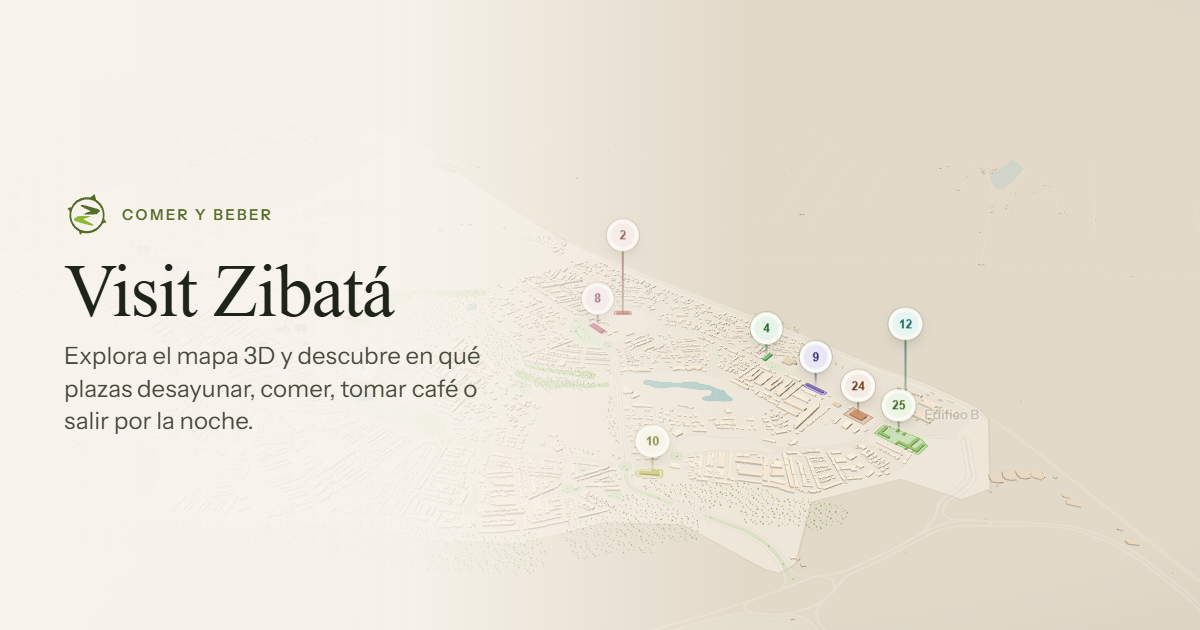
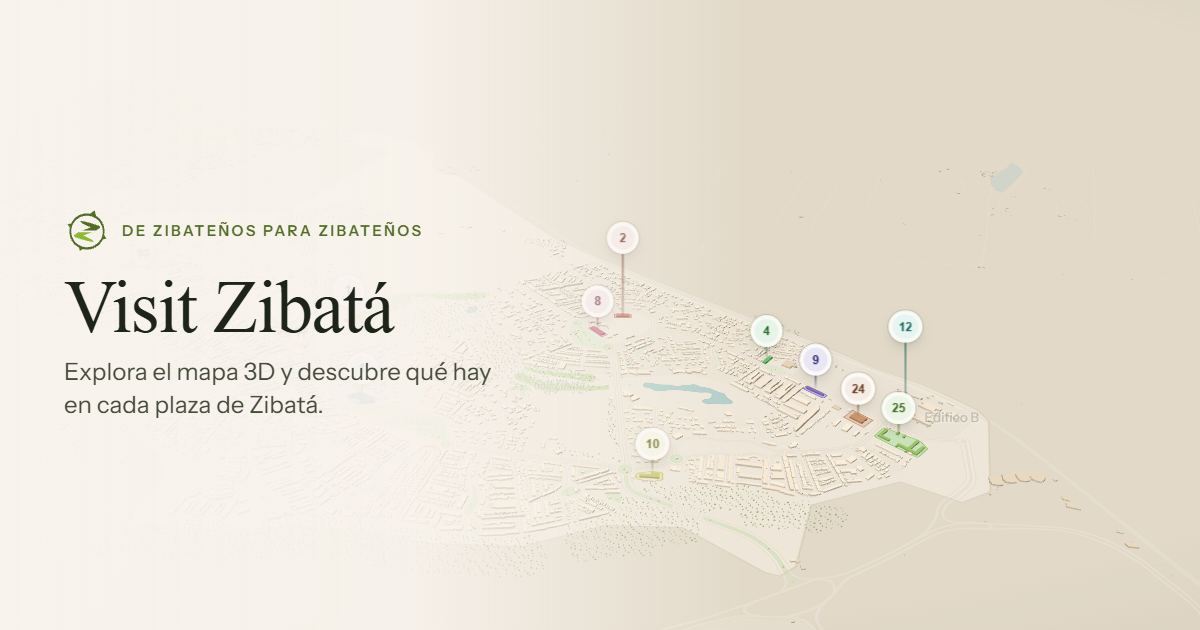
Cambia el lema y adopta la firma oficial de aurariola.com
"Comer y beber" acotaba el proyecto a lo que hoy contiene en vez de a lo que
quiere ser. El lema pasa a "La guía de zibateños para zibateños", y en inglés a
"By locals, for locals": el gentilicio no tiene equivalente y forzarlo sonaría a
traducción. Se va también de los textos que describen la guía, del tutorial, de
"Acerca" y de la hoja de perfil, incluidos "busca un antojo" y "lo que más se te
antoja", que acotaban a comida sin nombrarla. El criterio: ningún texto de
interfaz debe prometer un alcance menor que el del proyecto.

Sobre el mapa la marca queda solo con el símbolo. El nombre no se pierde: sigue
en el <h1> oculto, que ahora es la única forma de oírlo, así que no se puede
quitar. La barra superior le devuelve ese ancho al buscador.

La firma de autoría pasa a ser el lockup oficial de aurariola.com (símbolo, "un
proyecto de" y wordmark) en vez del "by aurariola.com" inventado antes. El
símbolo se reconstruye desde su guía de marca: anillo de píxeles sobre teja,
rejilla de 256 con paso 32, y un único módulo en oro, el cursor.

El oro va en dos tonos y por una razón: en el símbolo, que es dibujo, el #B7791F
de la guía tal cual, que con 3:1 cumple. En el punto del wordmark, que es texto
de 11 px, se oscurece, porque ahí hace falta 4,5:1 y el oro de marca se queda en
3,3:1 sobre las superficies arena.

En la franja del mapa la firma va sin el conector: con el lockup entero, la
leyenda de independencia pasaba a dos renglones incluso a 1920 px (38 px de alto
[…]

diff --git a/src/i18n/es.ts b/src/i18n/es.ts
@@ -5,7 +5,7 @@
  */
 export const es = {
   'app.name': 'Visit Zibatá',
-  'app.tagline': 'Comer y beber',
+  'app.tagline': 'La guía de zibateños para zibateños',
   'app.mapLabel': 'Mapa 3D interactivo de Zibatá',
 
   'search.label': 'Buscar lugares',
@@ -25,7 +25,7 @@ export const es = {
   'places.matching': { one: '{count} coincide', other: '{count} coinciden' },
 
   'explore.title': 'Explora Zibatá',
-  'explore.summary': '{plazas} con {places} para comer y beber',
+  'explore.summary': '{plazas} con {places} en el mapa',
   'explore.hint': 'Toca una zona en el mapa o elige una de la lista.',
   'explore.list': 'Zonas',
   'explore.openList': 'Explora Zibatá',
@@ -120,6 +120,8 @@ export const es = {
   'favorites.filter': 'Favoritos',
   'favorites.saved': 'Guardado en favoritos',
 
+  'brand.by': 'un proyecto de',
+
   'share.action': 'Compartir',
   'share.place': 'Compartir {name}',
   /* Etiqueta, no frase: lleva el nombre, los giros y la zona, que es lo que la guía ya publica. */
@@ -164,10 +166,10 @@ export const es = {
     'Arrastra para moverte, pellizca o usa la rueda para acercarte y gira con dos dedos o clic derecho.',
   'onboarding.step2.title': 'Selecciona una zona',
   'onboarding.step2.body':
-    'Las zonas con lugares para comer y beber están resaltadas en verde. Tócalas para ver qué hay.',
+    'Las zonas con lugares están resaltadas en verde. Tócalas para ver qué hay.',
   'onboarding.step3.title': 'Abre la ficha de un lugar',
   'onboarding.step3.body':
-    'Filtra por categoría o busca un antojo, y toca una tarjeta para ver horario, contacto y cómo llegar.',
+    'Filtra por categoría o busca lo que necesites, y toca una tarjeta para ver horario, contacto y cómo llegar.',
   'onboarding.step4.title': 'Deja tu marca',
   'onboarding.step4.body':
     'En la ficha puedes registrar tus visitas al lugar, guardarlo con el corazón y calificarlo con estrellas.',
@@ -187,9 +189,9 @@ export const es = {
   'about.languageEs': 'Español',
   'about.languageEn': 'English',
 
-  'about.aboutLead': 'Una guía para decidir dónde comer y beber en Zibatá.',
+  'about.aboutLead': 'Una guía para saber qué hay en Zibatá y decidir adónde ir.',
   'about.aboutBody':
-    'Reúne en un mapa los lugares de la zona con lo que hace falta para decidir. Qué se come en cada uno, dónde está, a qué hora abre y cómo llegar.',
+    'Reúne en un mapa los lugares de la zona con lo que hace falta para decidir. Qué ofrece cada uno, dónde está, a qué hora abre y cómo llegar.',
   'about.aboutSources':
     'Es una guía independiente, de la comunidad para la comunidad, hecha con información pública y actualizada cuando algo cambia.',
 
@@ -244,7 +246,7 @@ export const es = {
   'profile.zoneDone': 'estrenada',
   'profile.podium': 'Tus tres de siempre',
   'profile.position': 'Puesto {position}',
-  'profile.tastes': 'Lo que más se te antoja',
+  'profile.tastes': 'Lo que más buscas',
   'profile.tasteCount': { one: '{count} lugar', other: '{count} lugares' },
   'profile.empty':
     'Registra una visita, guarda un lugar con el corazón o califícalo, y aquí verás tu paso por Zibatá.',

diff --git a/src/i18n/en.ts b/src/i18n/en.ts
@@ -7,7 +7,7 @@ import type { Messages } from './es.ts'
 
 export const en = {
   'app.name': 'Visit Zibatá',
-  'app.tagline': 'Eat & drink',
+  'app.tagline': 'By locals, for locals',
   'app.mapLabel': 'Interactive 3D map of Zibatá',
 
   'search.label': 'Search places',
@@ -27,7 +27,7 @@ export const en = {
   'places.matching': { one: '{count} match', other: '{count} matches' },
 
   'explore.title': 'Explore Zibatá',
-  'explore.summary': '{plazas} with {places} to eat and drink',
+  'explore.summary': '{plazas} with {places} on the map',
   'explore.hint': 'Tap an area on the map or pick one from the list.',
   'explore.list': 'Areas',
   'explore.openList': 'Explore Zibatá',
@@ -115,6 +115,8 @@ export const en = {
   'favorites.filter': 'Favourites',
   'favorites.saved': 'Saved to favourites',
 
+  'brand.by': 'a project by',
+
   'share.action': 'Share',
   'share.place': 'Share {name}',
   'share.text': '{name} · {giros} · {plaza}',
@@ -158,10 +160,10 @@ export const en = {
     'Drag to move, pinch or scroll to zoom, and rotate with two fingers or right click.',
   'onboarding.step2.title': 'Pick an area',
   'onboarding.step2.body':
-    'Areas with places to eat and drink are highlighted in green. Tap one to see what’s there.',
+    'Areas with places are highlighted in green. Tap one to see what’s there.',
   'onboarding.step3.title': 'Open a place',
   'onboarding.step3.body':
-    'Filter by category or search a craving, then tap a card for hours, contact and directions.',
+    'Filter by category or search for what you need, then tap a card for hours, contact and directions.',
   'onboarding.step4.title': 'Leave your mark',
   'onboarding.step4.body':
     'On each place you can log your visits, save it with the heart and rate it with stars.',
@@ -181,9 +183,9 @@ export const en = {
   'about.languageEs': 'Español',
   'about.languageEn': 'English',
 
-  'about.aboutLead': 'A guide for deciding where to eat and drink in Zibatá.',
+  'about.aboutLead': 'A guide to what there is in Zibatá, so you can decide where to go.',
   'about.aboutBody':
-    'It brings the places of the area together on one map with what you need to decide. What each one serves, where it is, when it opens and how to get there.',
+    'It brings the places of the area together on one map with what you need to decide. What each one offers, where it is, when it opens and how to get there.',
   'about.aboutSources':
     'It is an independent guide, by the community and for the community, built from public information and updated whenever something changes.',
 
@@ -238,7 +240,7 @@ export const en = {
   'profile.zoneDone': 'visited',
   'profile.podium': 'Your usual three',
   'profile.position': 'Place {position}',
-  'profile.tastes': 'What you fancy most',
+  'profile.tastes': 'What you look for most',
   'profile.tasteCount': { one: '{count} place', other: '{count} places' },
   'profile.empty':
     'Log a visit, save a place with the heart or rate it, and your time in Zibatá will show up here.',

diff --git a/src/components/brand/Signature.tsx b/src/components/brand/Signature.tsx
@@ -1,13 +1,30 @@
+import { t } from '../../i18n/index.ts'
+import { AurariolaMark } from './AurariolaMark.tsx'
 import styles from './Signature.module.css'
 
 /**
- * Firma de autoría. Va en la franja inferior y en "Acerca de esta guía".
+ * Firma de autoría, tal como la define la guía de marca de aurariola.com: la marca, "un proyecto de"
+ * y el wordmark. No es un "by aurariola.com" inventado; es su lockup de acreditación.
  *
- * El texto no pasa por i18n a propósito: es parte de la marca, como el dibujo del símbolo, y una
- * firma no se traduce. Del sello de aurariola solo se toma la tipografía monoespaciada y el punto
- * en oro; el anillo de píxeles se queda fuera para no competir con la marca de la guía.
+ * El wordmark no pasa por i18n: es parte de la marca y una marca no se traduce. "Un proyecto de" sí,
+ * porque eso es texto de interfaz.
+ *
+ * El punto va en oro, que es lo que liga el wordmark con el píxel-cursor del símbolo. Pero ahí usa
+ * `--gold-700` y no el #B7791F de la guía: a 11 px es texto, y el oro de marca se queda en 3,3:1
+ * sobre las superficies arena cuando hace falta 4,5:1. En el símbolo, que es dibujo, sí va el oro
+ * real.
+ *
+ * `compacta` deja fuera el conector. Se usa en la franja del mapa, donde el lockup entero empujaba
+ * la leyenda de independencia a dos renglones; el símbolo y el wordmark siguen diciendo quién firma.
+ * En "Acerca de esta guía" va completo, que es donde hay sitio.
  */
-export function Signature({ className }: { className?: string }) {
+export function Signature({
+  className,
+  compacta = false,
+}: {
+  className?: string
+  compacta?: boolean
+}) {
   return (
     <a
       className={className ? `${styles.signature} ${className}` : styles.signature}
@@ -15,7 +32,12 @@ export function Signature({ className }: { className?: string }) {
       target="_blank"
       rel="noopener noreferrer"
     >
-      by aurariola<span className={styles.dot}>.</span>com
+      <AurariolaMark />
+      {!compacta && <span className={styles.by}>{t('brand.by')}</span>}
+      <span className={styles.wordmark}>
+        aurariola<span className={styles.dot}>.</span>
+        <span className={styles.tld}>com</span>
+      </span>
     </a>
   )
 }

diff --git a/src/components/brand/AurariolaMark.tsx b/src/components/brand/AurariolaMark.tsx
@@ -1,0 +1,47 @@
+/**
+ * La marca de aurariola.com, reconstruida desde su guía de réplica.
+ *
+ * Es un anillo ("o" de aureola, por el origen latino de Orihuela: aurum, oro) dibujado en píxeles
+ * sobre una teja redondeada, con un único módulo en oro: el cursor, lo que escribe. Esa es la regla
+ * que no se toca, nunca hay más de un módulo en color.
+ *
+ * Rejilla de 256 con paso 32: los módulos caen en 17, 49, 81, 113, 145, 177 y 209, y cada uno mide
+ * 30 con radio 4. Se generan desde las filas en vez de escribir veintisiete rectángulos a mano,
+ * porque así el dibujo se lee como lo que es y un error de un píxel salta a la vista.
+ */
+
+/** Cada fila del anillo: la coordenada y, y las x que llevan módulo. */
+const FILAS: [number, number[]][] = [
+  [17, [81, 113, 145]],
+  [49, [49, 81, 113, 145, 177]],
+  [81, [17, 49, 177, 209]],
+  [113, [17, 49, 177, 209]],
+  [145, [17, 49, 177, 209]],
+  [177, [49, 81, 113, 145]],
+  [209, [81, 113, 145]],
+]
+
+/** El cursor: el único módulo en oro, abajo a la derecha del anillo. */
+const CURSOR = { x: 177, y: 177 }
+
+export function AurariolaMark({ size = 18 }: { size?: number }) {
+  return (
+    <svg
+      width={size}
+      height={size}
+      viewBox="0 0 256 256"
+      aria-hidden="true"
+      focusable="false"
+      style={{ display: 'block', flexShrink: 0 }}
+    >
+      <rect x="8" y="8" width="240" height="240" rx="52" fill="#14161b" />
+      <g fill="#f1efe9">
+        {FILAS.flatMap(([y, xs]) =>
+          xs.map((x) => <rect key={`${x}-${y}`} x={x} y={y} width="30" height="30" rx="4" />),
+        )}
+      </g>
+      {/* Oro de marca sin oscurecer: aquí es un dibujo, no texto, así que le basta con 3:1. */}
+      <rect {...CURSOR} width="30" height="30" rx="4" fill="#d6a93e" />
+    </svg>
+  )
+}

diff --git a/index.html b/index.html
@@ -3,10 +3,10 @@
   <head>
     <meta charset="UTF-8" />
     <meta name="viewport" content="width=device-width, initial-scale=1, viewport-fit=cover" />
-    <title>Visit Zibatá · Dónde comer y beber: mapa 3D interactivo</title>
+    <title>Visit Zibatá · La guía de zibateños para zibateños</title>
     <meta
       name="description"
-      content="Explora Zibatá, Querétaro, en un mapa 3D y descubre en qué plazas puedes desayunar, comer, tomar café, un postre o una bebida."
+      content="Explora Zibatá, Querétaro, en un mapa 3D y descubre qué hay en cada plaza: horarios, contacto y cómo llegar."
     />
     <meta name="theme-color" content="#f4efe6" />
     <meta name="color-scheme" content="light" />
@@ -16,11 +16,11 @@
 
     <meta property="og:type" content="website" />
     <meta property="og:locale" content="es_MX" />
-    <meta property="og:site_name" content="Visit Zibatá · Comer y beber" />
-    <meta property="og:title" content="Visit Zibatá · Dónde comer y beber" />
+    <meta property="og:site_name" content="Visit Zibatá" />
+    <meta property="og:title" content="Visit Zibatá · La guía de zibateños para zibateños" />
     <meta
       property="og:description"
-      content="Un mapa 3D de Zibatá para descubrir dónde comer y beber: plazas, cafeterías, restaurantes, postres y bares."
+      content="Un mapa 3D de Zibatá para descubrir qué hay en cada plaza, con horarios, contacto y cómo llegar."
     />
     <meta property="og:image" content="/og-image.png" />
     <meta property="og:image:width" content="1200" />

diff --git a/src/components/brand/Signature.module.css b/src/components/brand/Signature.module.css
@@ -1,18 +1,40 @@
+/*
+ * El lockup de acreditación de aurariola.com: símbolo, "un proyecto de" y wordmark, en una línea
+ * que no se parte. Si no cabe, se encoge la leyenda antes que el wordmark, porque el wordmark es
+ * la marca y la leyenda es solo el conector.
+ */
 .signature {
-  font-family: var(--font-mono);
-  font-size: var(--text-2xs);
-  letter-spacing: -0.03em;
-  color: var(--color-text-muted);
+  display: inline-flex;
+  align-items: center;
+  gap: 0.5rem;
   text-decoration: none;
   white-space: nowrap;
 }
 
-.signature:hover {
+.by {
+  font-size: var(--text-2xs);
+  color: var(--color-text-muted);
+}
+
+.wordmark {
+  font-family: var(--font-mono);
+  font-size: var(--text-2xs);
+  font-weight: 600;
+  /* Tracking negativo, como pide la guía de marca. */
+  letter-spacing: -0.04em;
+  color: var(--ink-700);
+}
+
+.signature:hover .wordmark {
   text-decoration: underline;
   text-underline-offset: 0.2em;
 }
 
-/* El punto en oro es lo único que la marca de aurariola aporta aquí: sin el anillo de píxeles. */
+/* El punto en oro es lo que liga el wordmark con el píxel-cursor del símbolo. */
 .dot {
   color: var(--gold-700);
+}
+
+.tld {
+  color: var(--color-text-muted);
 }

diff --git a/src/components/brand/Brand.test.tsx b/src/components/brand/Brand.test.tsx
@@ -6,12 +6,16 @@ import { Brand } from './Brand.tsx'
 describe('Brand', () => {
   it('separa el nombre del lema para los lectores de pantalla', () => {
     render(<Brand />)
-    // Sin la coma oculta, NVDA leía "Visit ZibatáCOMER Y BEBER" de corrido.
-    expect(screen.getByText(/Zibatá/).closest('p')?.textContent).toBe('Visit Zibatá, Comer y beber')
+    // Sin la coma oculta, NVDA leía el nombre y el lema pegados, de corrido.
+    expect(screen.getByText(/Zibatá/).closest('p')?.textContent).toBe(
+      'Visit Zibatá, La guía de zibateños para zibateños',
+    )
   })
 
   it('en modo compacto solo muestra el símbolo', () => {
+    // Es el modo que se usa sobre el mapa: ahí el nombre lo lleva el <h1> oculto.
     render(<Brand compact />)
-    expect(screen.queryByText(/Comer y beber/)).toBeNull()
+    expect(screen.queryByText(/zibateños/)).toBeNull()
+    expect(screen.queryByText(/Visit Zibatá/)).toBeNull()
   })
 })

diff --git a/scripts/images/generate-og-image.ts b/scripts/images/generate-og-image.ts
@@ -52,9 +52,9 @@ try {
     const card = document.createElement('div')
     card.id = 'og-card'
     card.innerHTML = `<div class="inner">
-      <div class="eyebrow">${marca}Comer y beber</div>
+      <div class="eyebrow">${marca}De zibateños para zibateños</div>
       <h1>Visit Zibatá</h1>
-      <p>Explora el mapa 3D y descubre en qué plazas desayunar, comer, tomar café o salir por la noche.</p>
+      <p>Explora el mapa 3D y descubre qué hay en cada plaza de Zibatá.</p>
     </div>`
     card.querySelector('svg')?.setAttribute('width', '46')
     card.querySelector('svg')?.setAttribute('height', '46')

diff --git a/src/app/Experience.tsx b/src/app/Experience.tsx
@@ -439,7 +439,9 @@ function ReadyExperience({ catalog }: { catalog: Catalog }) {
         >
           <div className={styles.topRow}>
             <div className={styles.searchCard}>
-              <Brand compact={!isDesktop} />
+              {/* Sobre el mapa, solo el símbolo: el nombre lo lleva el <h1> para quien
+                  escucha, y la barra superior ya va justa de ancho con el buscador. */}
+              <Brand compact />
               <SearchBar
                 value={state.searchQuery}
                 onChange={(query) => dispatch({ type: 'setQuery', query })}

diff --git a/tests/e2e/map.spec.ts b/tests/e2e/map.spec.ts
@@ -64,7 +64,10 @@ test.describe('Mapa', () => {
     await openApp(page)
     await expect(page).toHaveTitle(/Zibatá/)
     await expect(
-      page.getByRole('heading', { level: 1, name: 'Visit Zibatá · Comer y beber' }),
+      page.getByRole('heading', {
+        level: 1,
+        name: 'Visit Zibatá · La guía de zibateños para zibateños',
+      }),
     ).toBeAttached()
     const canvas = page.locator('canvas.maplibregl-canvas')
     await expect(canvas).toBeVisible()

diff --git a/src/features/about/SuggestForm.tsx b/src/features/about/SuggestForm.tsx
@@ -51,7 +51,7 @@ export function SuggestForm() {
         body: JSON.stringify({
           access_key: SUGGEST_FORM_KEY,
           subject: place.trim() ? `Zibatá · ${place.trim()}` : 'Zibatá · sugerencia',
-          from_name: 'Zibatá · Comer y beber',
+          from_name: 'Visit Zibatá',
           quien: who,
           lugar: place.trim(),
           mensaje: message.trim(),

diff --git a/src/features/about/GuideBar.tsx b/src/features/about/GuideBar.tsx
@@ -26,7 +26,7 @@ export function GuideBar({ onOpen }: { onOpen: (topic: InfoTopic) => void }) {
           </button>
         ))}
       </nav>
-      <Signature className={styles.firma} />
+      <Signature className={styles.firma} compacta />
     </div>
   )
 }
